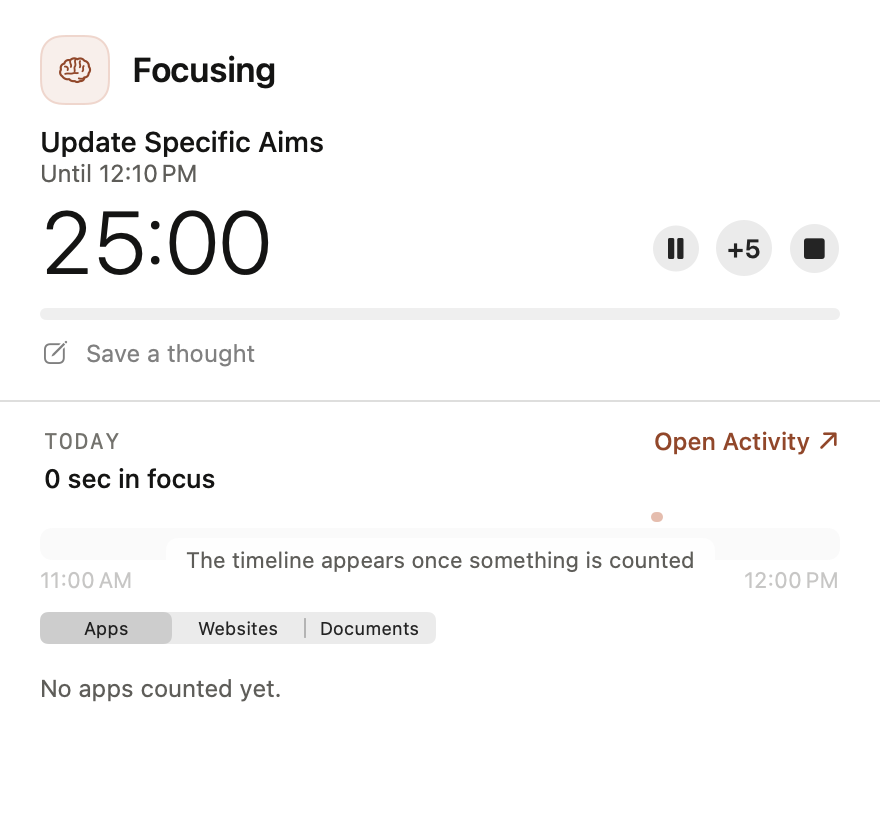
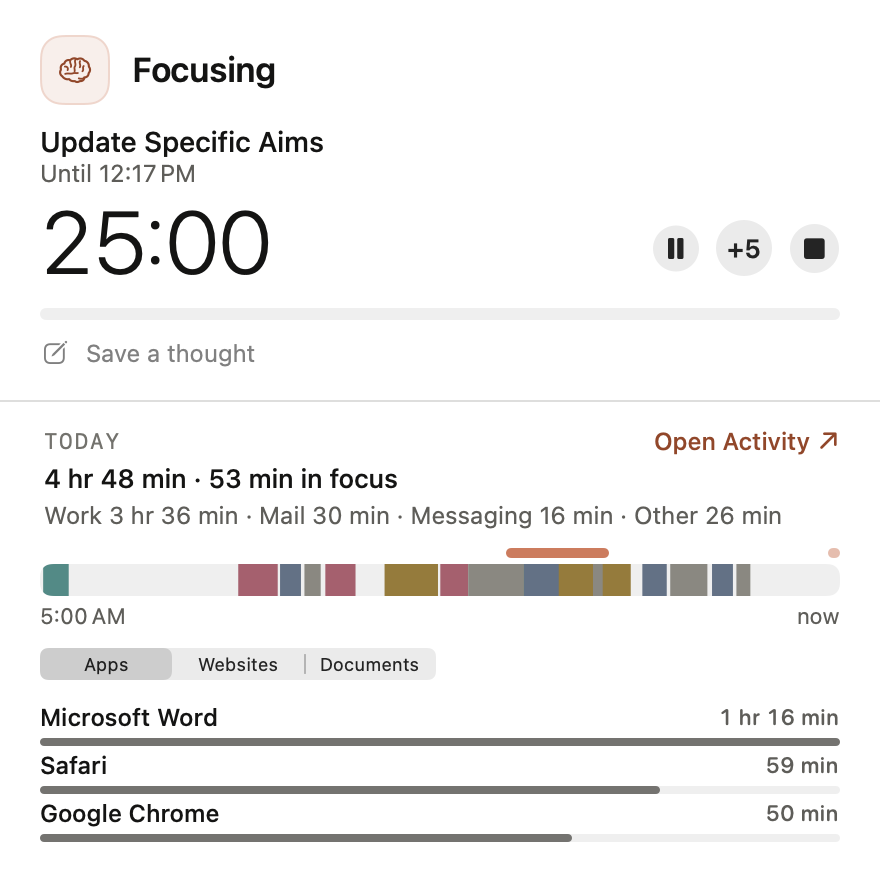
Compact ribbon says its empty line under the track; widget radii tokens; popover pictures with a day's data

diff --git a/Widget/NidusWidget.swift b/Widget/NidusWidget.swift
@@ -402,8 +402,8 @@ struct NidusTodayView: View {
             }
             GeometryReader { proxy in
                 ZStack(alignment: .leading) {
-                    RoundedRectangle(cornerRadius: 2).fill(ink.track)
-                    RoundedRectangle(cornerRadius: 2).fill(ink.tint(category.tint))
+                    RoundedRectangle(cornerRadius: Solanum.markRadius).fill(ink.track)
+                    RoundedRectangle(cornerRadius: Solanum.markRadius).fill(ink.tint(category.tint))
                         .frame(width: max(2, min(1, Double(category.minutes) / biggest) * proxy.size.width))
                 }
             }
@@ -457,7 +457,7 @@ private struct DayRibbon: View {
             if !focus.isEmpty {
                 GeometryReader { proxy in
                     ForEach(focus.indices, id: \.self) { index in
-                        RoundedRectangle(cornerRadius: 1.5)
+                        RoundedRectangle(cornerRadius: Solanum.markRadius)
                             .fill(ink.focus)
                             .frame(width: max(2, (focus[index].1 - focus[index].0) * proxy.size.width), height: 3)
                             .offset(x: focus[index].0 * proxy.size.width)

diff --git a/Sources/Nidus/App/ActivityDayRibbon.swift b/Sources/Nidus/App/ActivityDayRibbon.swift
@@ -41,6 +41,14 @@ struct ActivityDayRibbon: View {
     private var compactBody: some View {
         VStack(alignment: .leading, spacing: 4) {
             focusBars
+            if ribbon.blocks.isEmpty {
+                // Too small for a line over the track: the faint track, then
+                // the line under it, in the axis's place.
+                track.opacity(0.35).accessibilityHidden(true)
+                Text(Self.emptyMessage)
+                    .font(.solanum(.caption))
+                    .foregroundStyle(Solanum.inkMuted)
+            } else {
             VStack(alignment: .leading, spacing: 4) {
                 track
                 HStack {
@@ -54,7 +62,7 @@ struct ActivityDayRibbon: View {
                 .frame(maxWidth: .infinity, minHeight: 12, maxHeight: 12, alignment: .leading)
                 .accessibilityHidden(true)
             }
-            .chartEmptyState(ribbon.blocks.isEmpty, Self.emptyMessage)
+            }
         }
         .coordinateSpace(name: Self.space)
         .activityHoverCallout(callout, at: pointer)

diff --git a/README.md b/README.md
@@ -5,7 +5,7 @@
 **Block the apps and websites that pull you away, for as long as you say.** A
 Solanum product.
 
-<img src="docs/popover-idle.png" width="440" alt="The Nidus popover under the menu bar: New session, a goal field reading What are you working on?, a 25 minute length, a clay Start focus button, More, Blocks Social, Video, and Today: nothing counted yet">
+<img src="docs/popover-idle.png" width="440" alt="The Nidus popover under the menu bar: New session, a goal field reading What are you working on?, a 25 minute length, a clay Start focus button, More, Blocks Social, and Today: 4 hr 48 min, 53 min in focus, a timeline of the day and the top apps">
 
 **Install in one line**: paste into Terminal (Apple silicon, macOS 27):
 
@@ -72,7 +72,7 @@ and the categories to block, and press Start. Until the session ends:
   during a strict session, and comes back if it's killed; see
   [Strict sessions](#strict-sessions).
 
-  <img src="docs/popover-running.png" width="440" alt="The popover during a session: Focusing, Update Specific Aims, until 12:04 PM, 25:00 with pause, +5 and stop buttons, a progress track, Save a thought, and Today with an empty timeline">
+  <img src="docs/popover-running.png" width="440" alt="The popover during a session: Focusing, Update Specific Aims, until 12:17 PM, 25:00 with pause, +5 and stop buttons, a progress track, Save a thought, and Today with the day’s timeline and top apps">
 - **A card says what happened**, at the top of your screen: what was blocked,
   a snooze about to run out, and how the session went.
 
